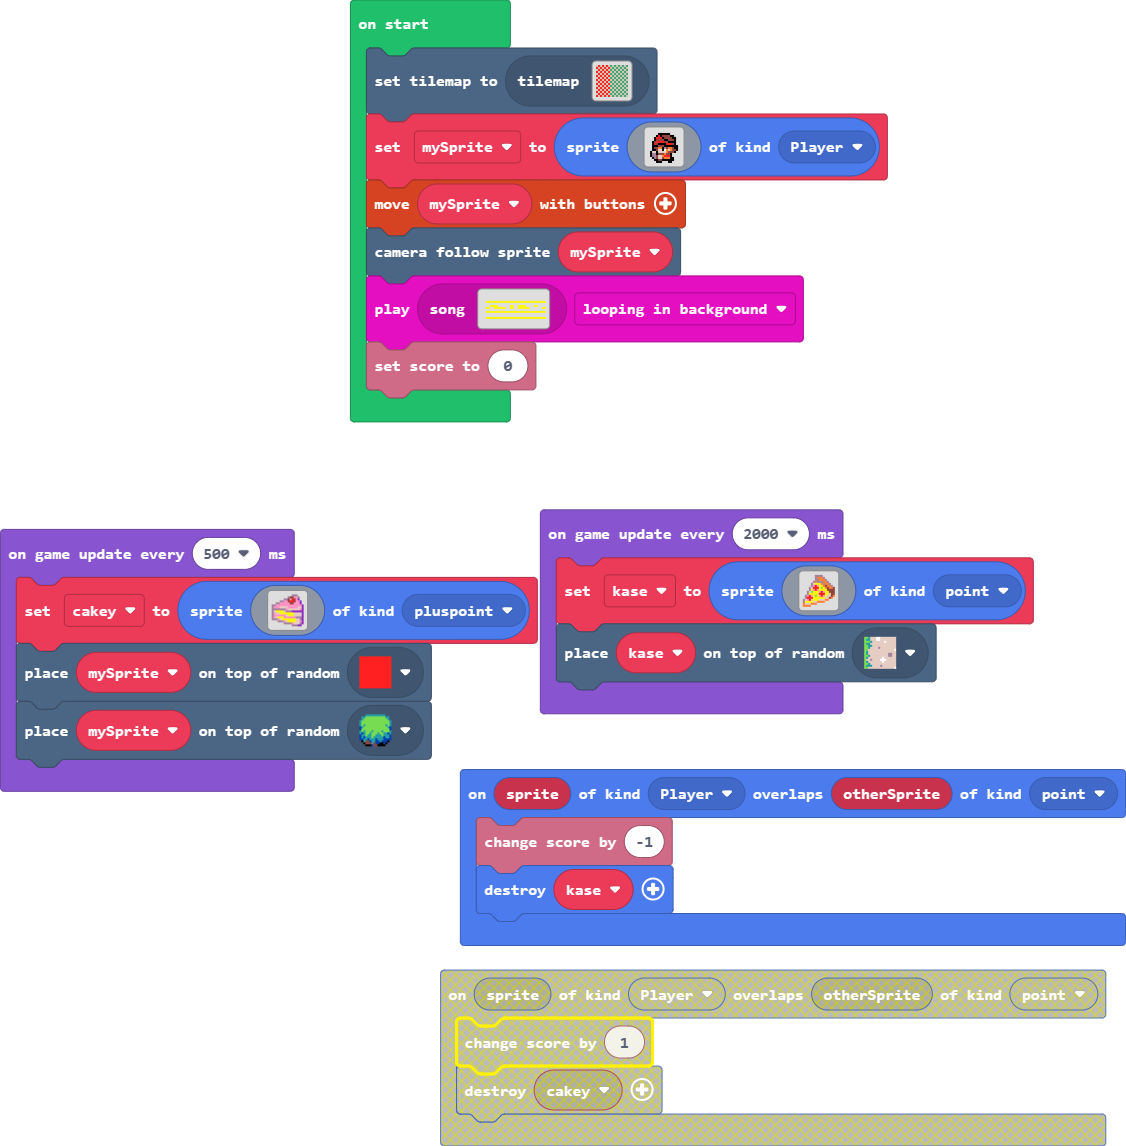
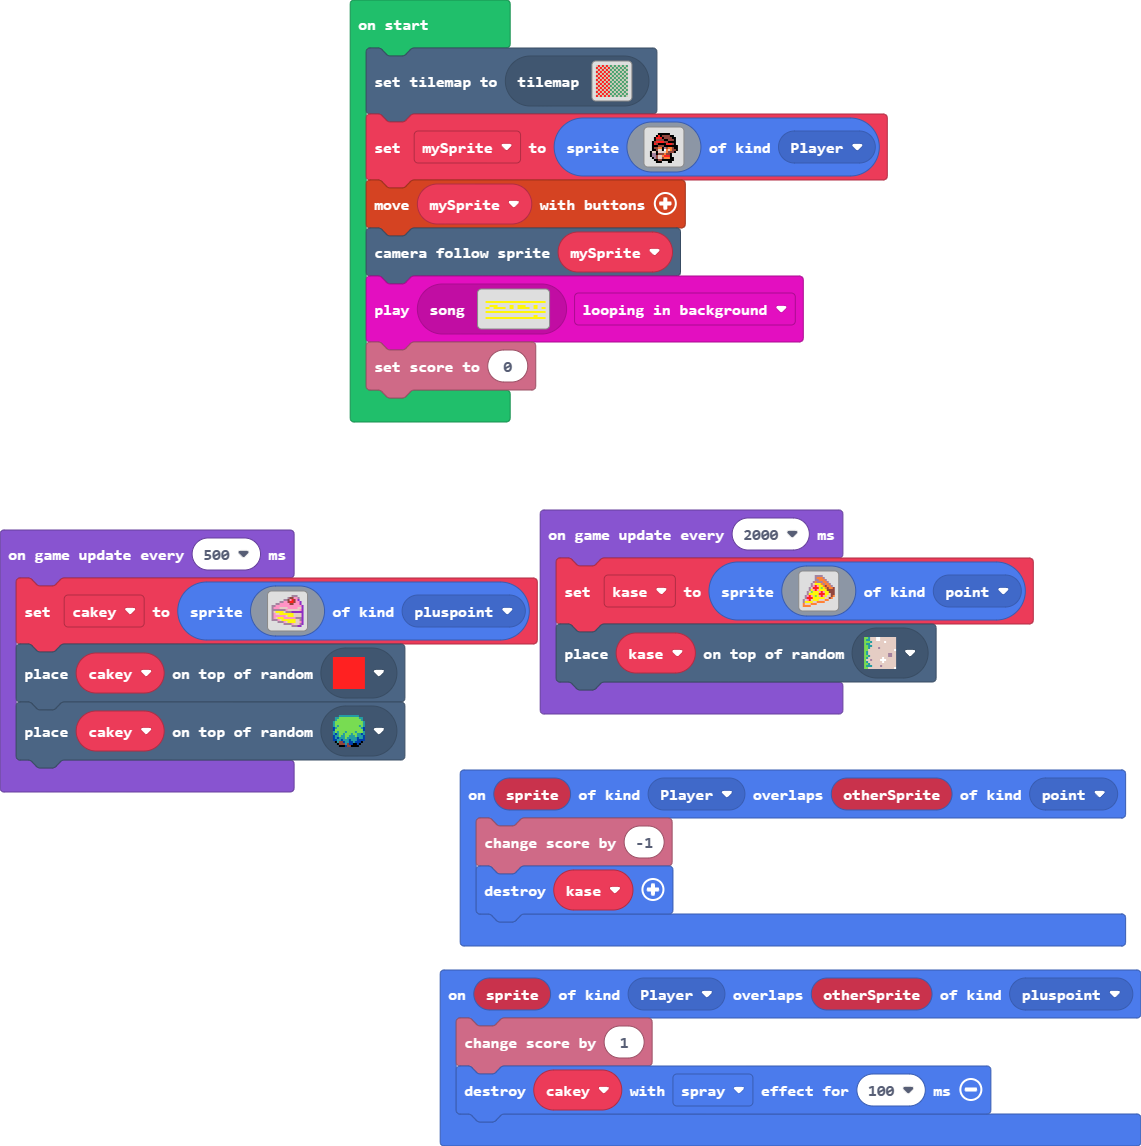
Update pxt.json, main.blocks, main.ts

Changed region(s): [[0.373, 0.6719, 1.0, 1.0], [0.0, 0.4276, 0.9325, 0.6719], [0.2798, 0.0, 0.8082, 0.3665]]

diff --git a/main.ts b/main.ts
@@ -6,6 +6,10 @@ sprites.onOverlap(SpriteKind.Player, SpriteKind.point, function (sprite, otherSp
     info.changeScoreBy(-1)
     sprites.destroy(kase)
 })
+sprites.onOverlap(SpriteKind.Player, SpriteKind.pluspoint, function (sprite, otherSprite) {
+    info.changeScoreBy(1)
+    sprites.destroy(cakey, effects.spray, 100)
+})
 let cakey: Sprite = null
 let kase: Sprite = null
 tiles.setCurrentTilemap(tilemap`level1`)
@@ -29,7 +33,7 @@ let mySprite = sprites.create(img`
     `, SpriteKind.Player)
 controller.moveSprite(mySprite)
 scene.cameraFollowSprite(mySprite)
[2 lines of base64/hex data omitted]
 info.setScore(0)
 game.onUpdateInterval(2000, function () {
     kase = sprites.create(img`
@@ -71,6 +75,6 @@ game.onUpdateInterval(500, function () {
         . . . . . . b b b b 3 d d d b a 
         . . . . . . . . . . b b b a a . 
         `, SpriteKind.pluspoint)
-    tiles.placeOnRandomTile(mySprite, assets.tile`myTile`)
-    tiles.placeOnRandomTile(mySprite, sprites.builtin.forestTiles0)
+    tiles.placeOnRandomTile(cakey, assets.tile`myTile`)
+    tiles.placeOnRandomTile(cakey, sprites.builtin.forestTiles0)
 })
